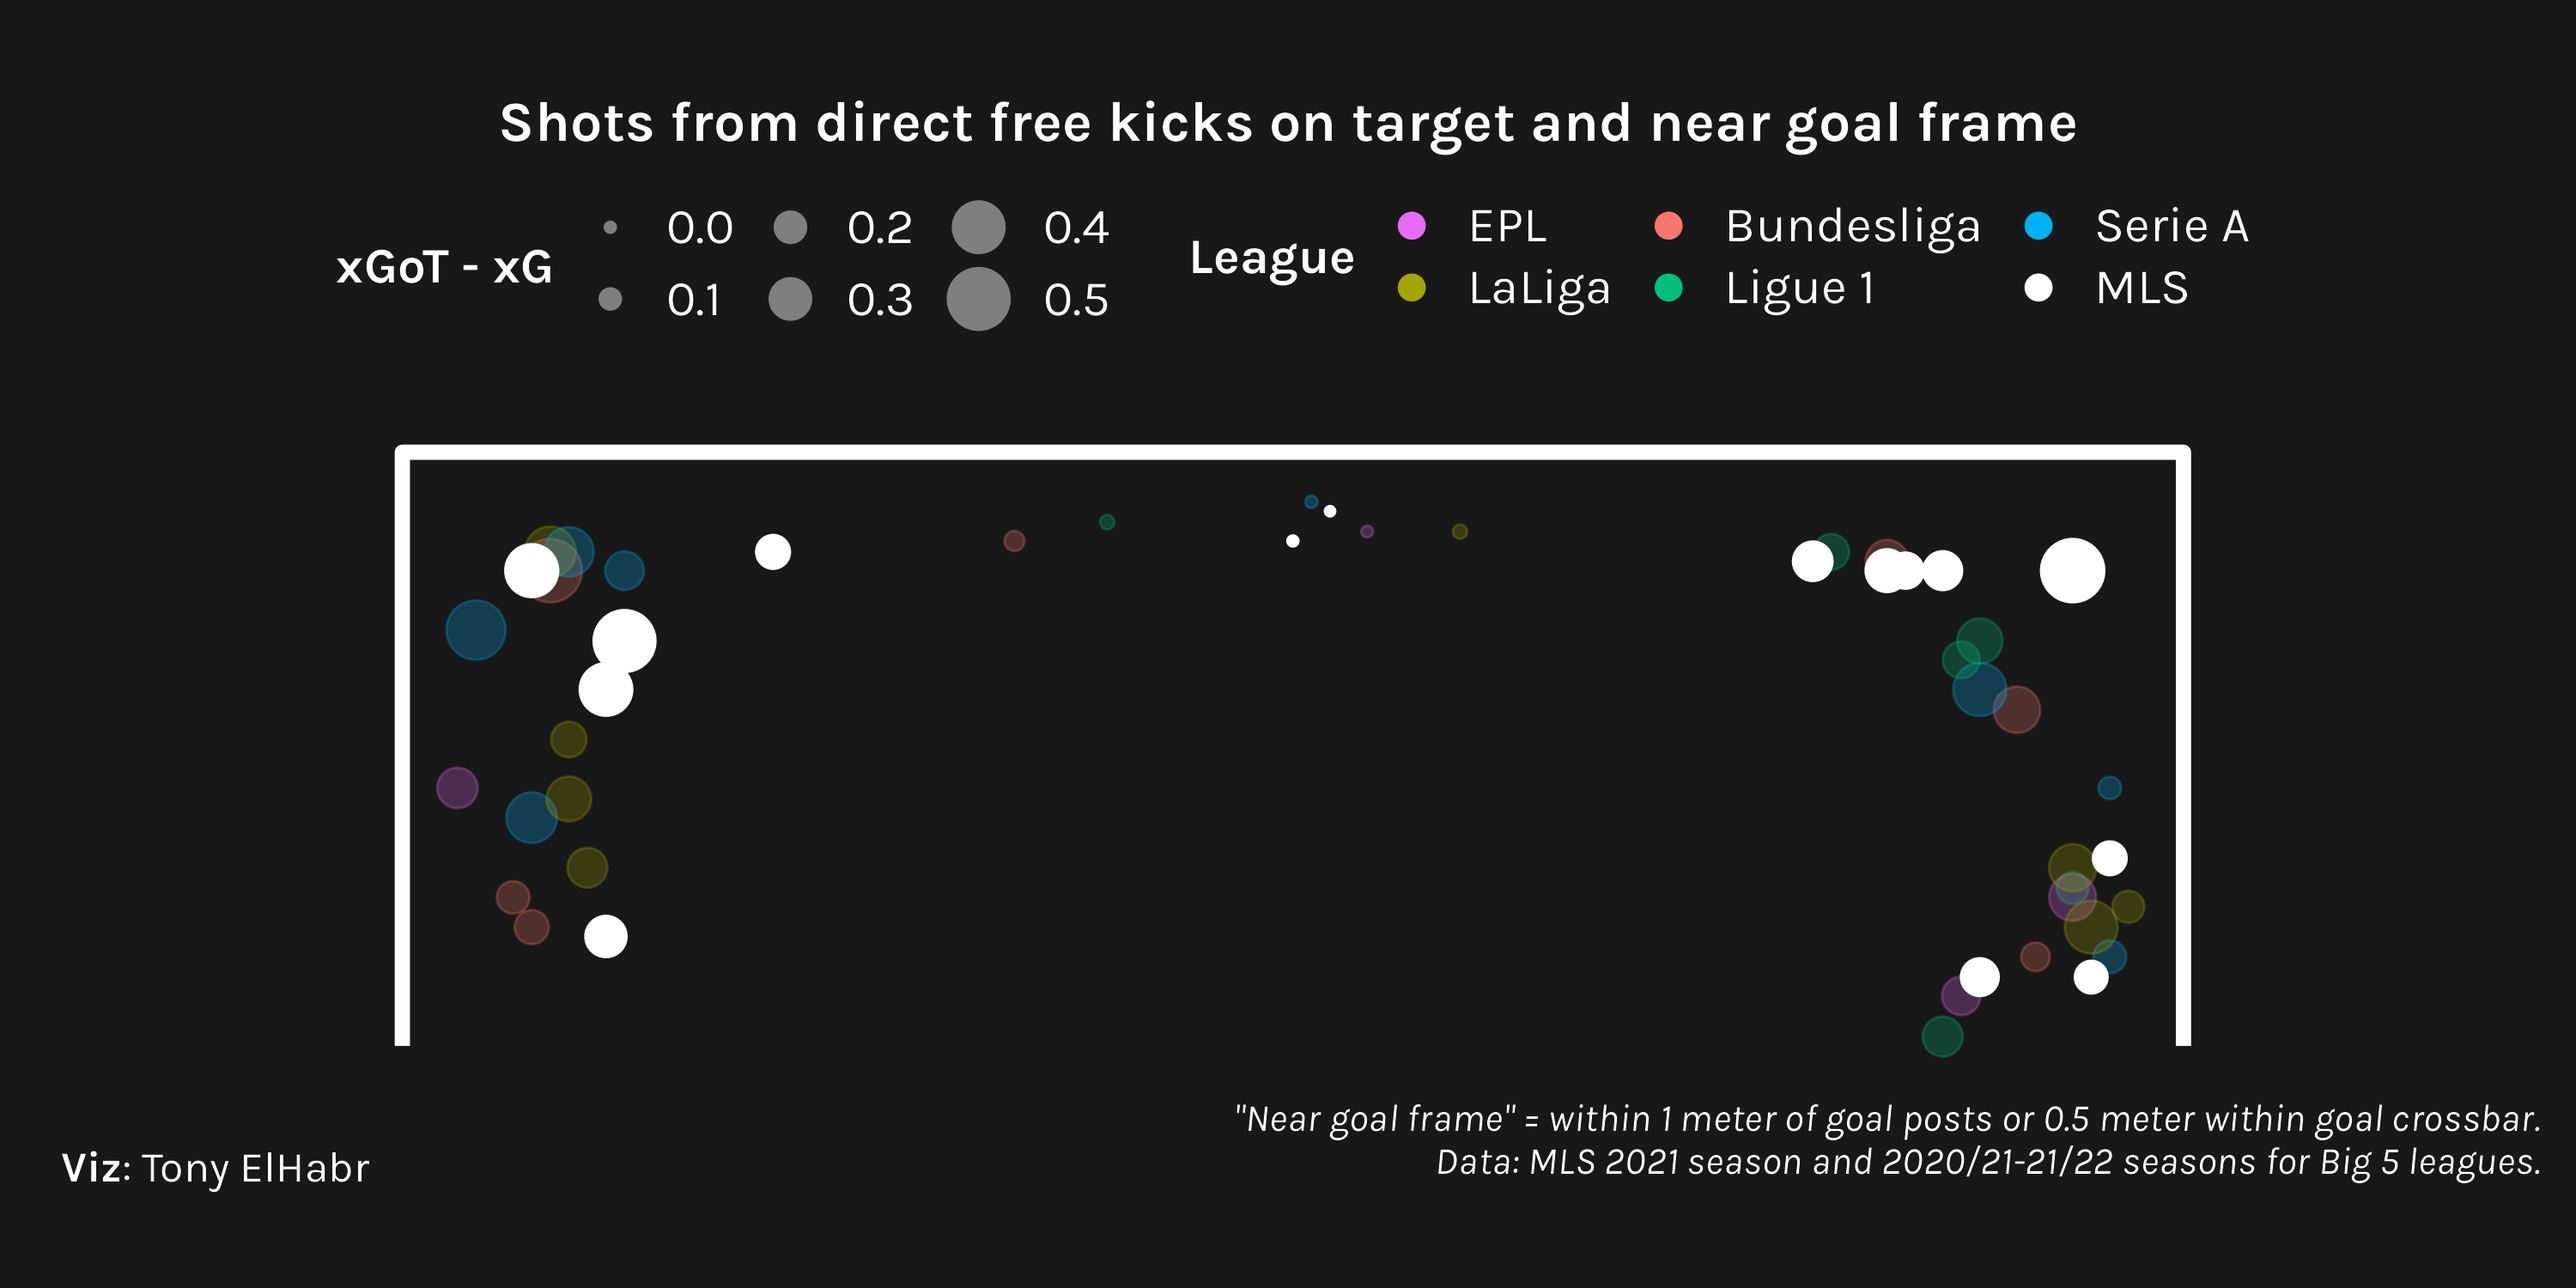
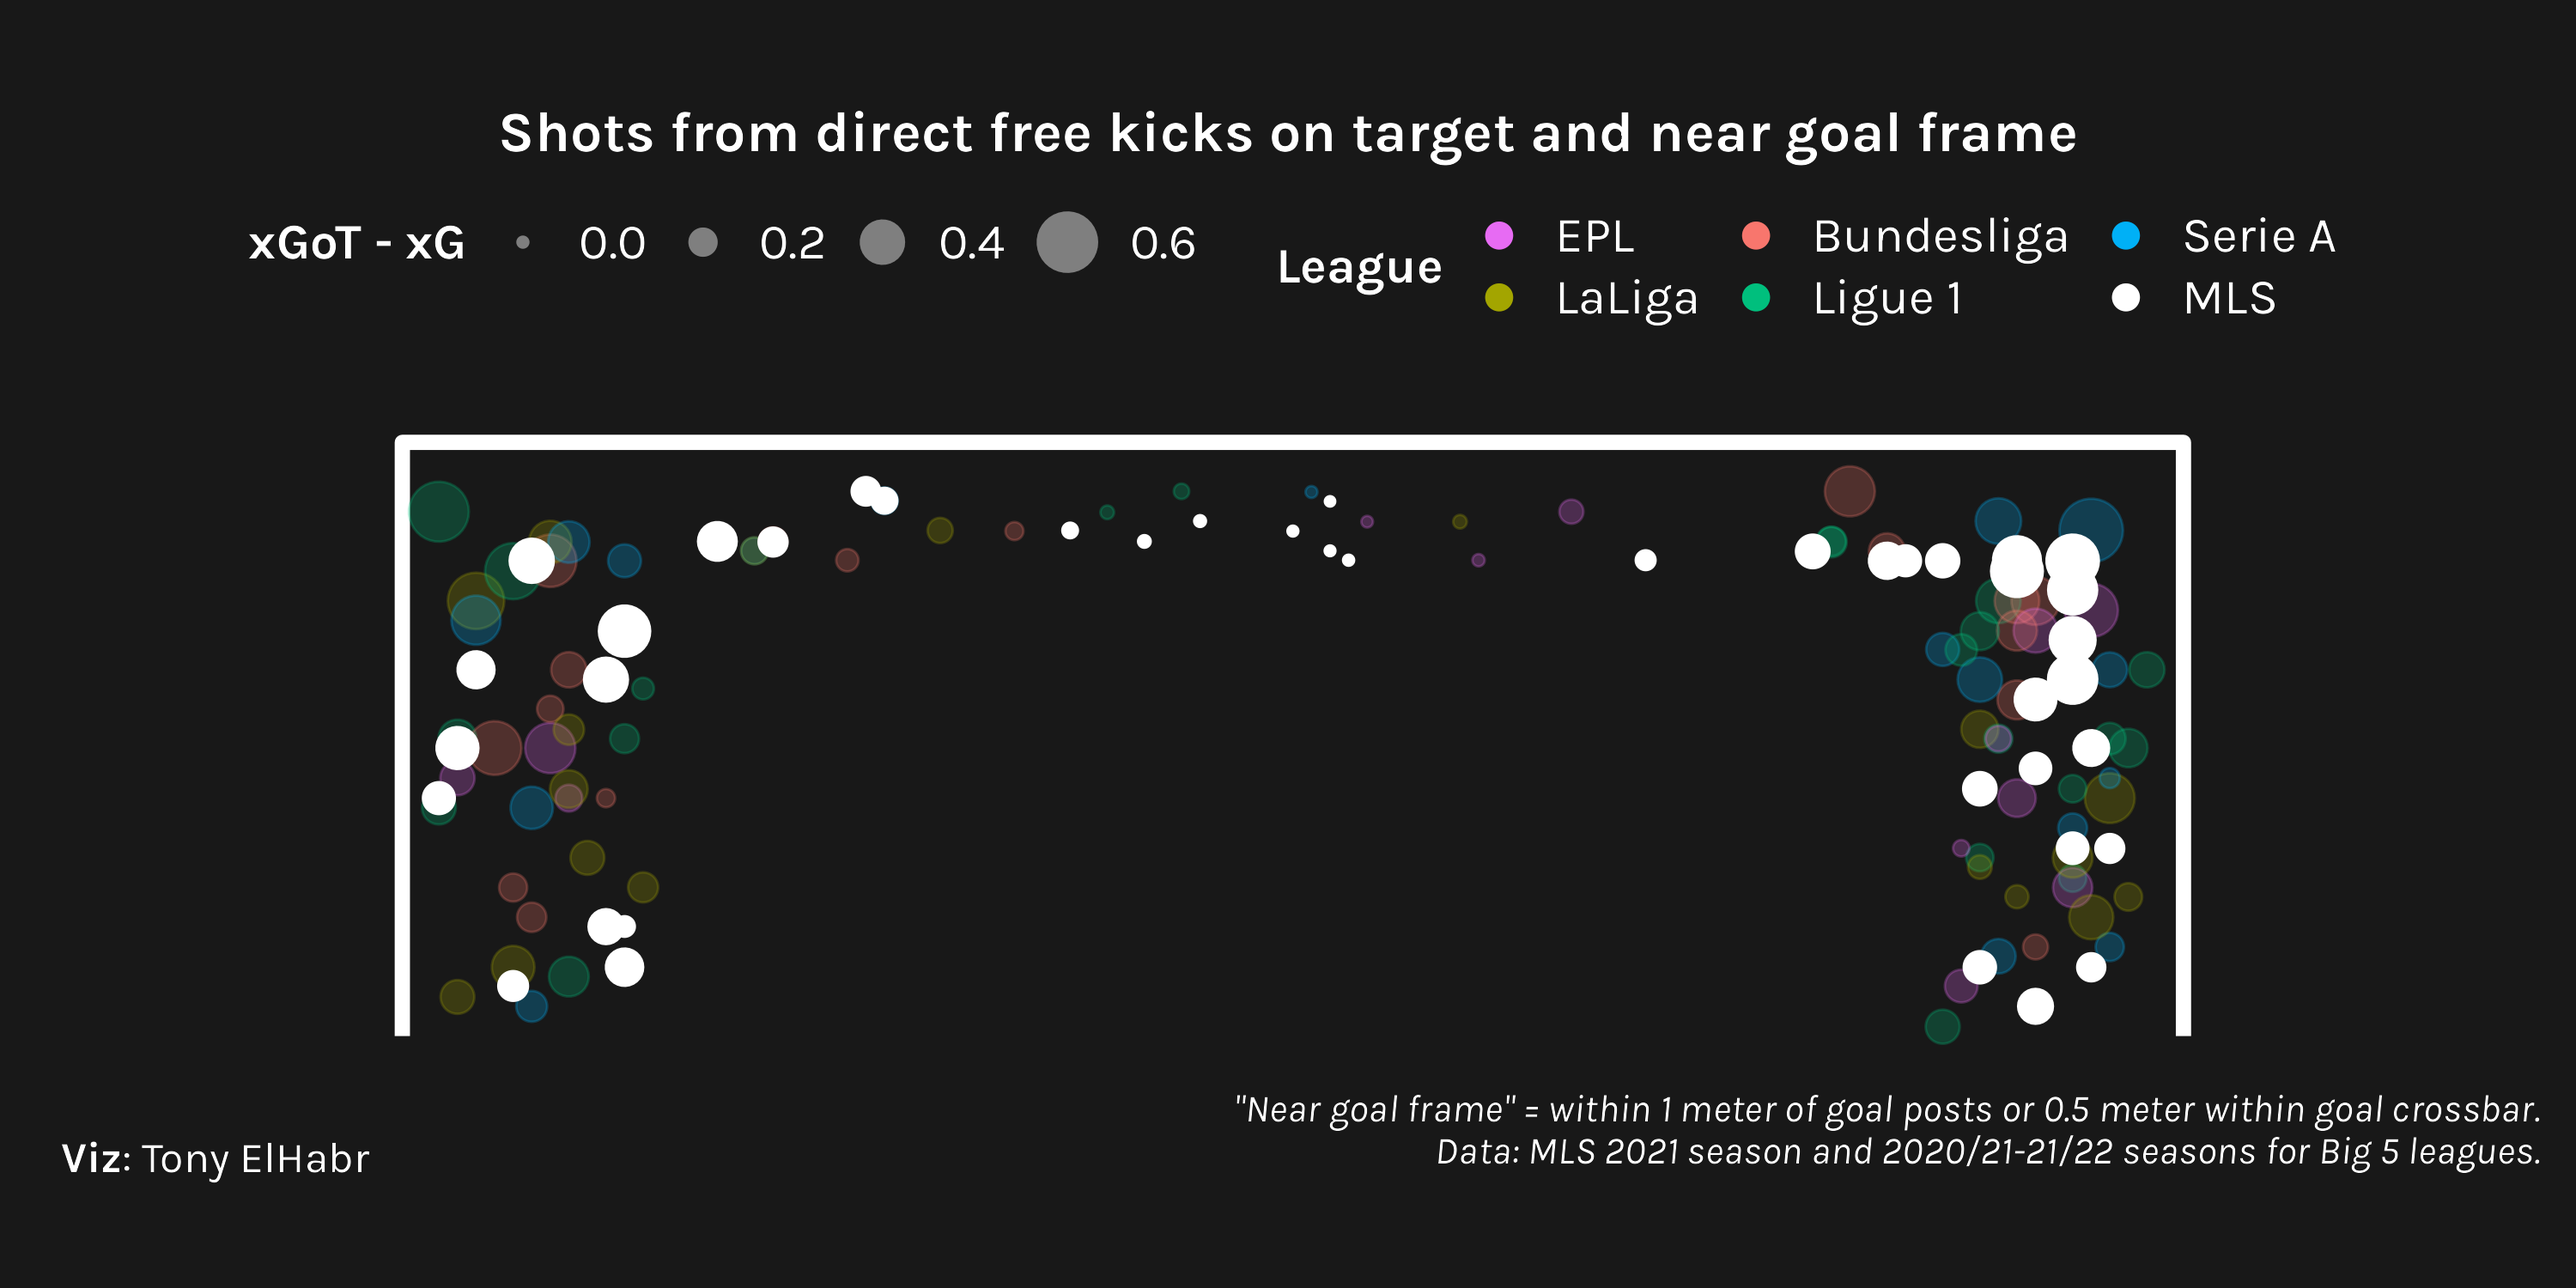
finalize 44

diff --git a/README.md b/README.md
@@ -6,6 +6,20 @@ gitignor’ed here.
 The projects are listed in reverse chronoligical order. A skipped number
 corresponds to an idea that I scrapped.
 
+# 44. MLS Golazos
+
+![error bars showing percentage of shots barely on frame in the MLS and
+the Big 5 soccer leagues, with MLS as having the highest
+percentage](44-mls_bangers/prop.png "MLS has the highest proportion of direct free kicks on target and near goal frame")
+
+![shotmap of 2021 MLS goals where shot is barely within frame (about 20
+shots)](44-mls_bangers/shotmap.png "Goals from direct free kicks on target and near goal frame")
+
+![plot of goal frame of shots barely within frame from MLS and big 5
+leagues, emphasizing difference in xG on target and xG with size and
+league with
+color](44-mls_bangers/frame.png "Shots from direct free kicks on target and near goal frame")
+
 # 43. xG Signal
 
 ![line plot showing log curve of average xg difference r squared with
